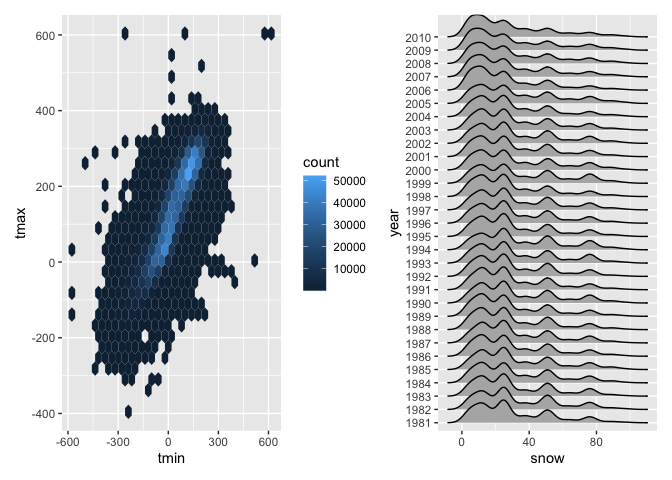
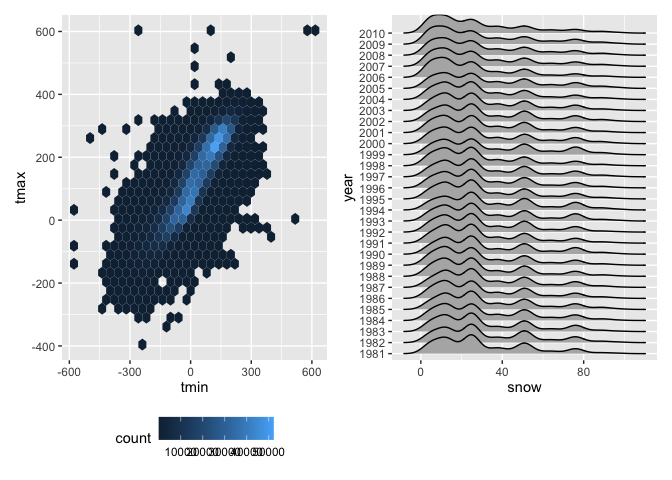
loaded and tidied data for p2; revised plots for p1

diff --git a/P8105_hw3_zl3545.md b/P8105_hw3_zl3545.md
@@ -9,18 +9,7 @@ Zeqi Li
 
 ``` r
 data("ny_noaa")
-head(ny_noaa)
 ```
-
-    ## # A tibble: 6 × 7
-    ##   id          date        prcp  snow  snwd tmax  tmin 
-    ##   <chr>       <date>     <int> <int> <int> <chr> <chr>
-    ## 1 US1NYAB0001 2007-11-01    NA    NA    NA <NA>  <NA> 
-    ## 2 US1NYAB0001 2007-11-02    NA    NA    NA <NA>  <NA> 
-    ## 3 US1NYAB0001 2007-11-03    NA    NA    NA <NA>  <NA> 
-    ## 4 US1NYAB0001 2007-11-04    NA    NA    NA <NA>  <NA> 
-    ## 5 US1NYAB0001 2007-11-05    NA    NA    NA <NA>  <NA> 
-    ## 6 US1NYAB0001 2007-11-06    NA    NA    NA <NA>  <NA>
 
 The NY NOAA dataset contains 2595176 rows and 2595176 columns. This
 dataset describes the weather in New York using variables such as date
@@ -91,7 +80,9 @@ hex =
   ny_noaa |> 
   ggplot(aes(x = tmin,
              y = tmax)) +
-  geom_hex()
+  geom_hex() +
+  theme(legend.position = "bottom") +
+  viridis::scale_color_viridis(discrete = TRUE)
 
 ridge = 
   ny_noaa |> 
@@ -99,9 +90,7 @@ ridge =
   ggplot(aes(x = snow,
              y = as.factor(year))) +
   geom_density_ridges() + 
-  ylab("year") +
-  theme(legend.position = "bottom") +
-  viridis::scale_color_viridis(discrete = TRUE)
+  ylab("year")
 
 hex + ridge
 ```
@@ -120,3 +109,28 @@ general, snowfall amounts follow a multi-modal distribution, where the
 amounts peak at around 10, 25, 50, and slightly at 75. This
 multi-modality is likely because of the conversion of measurements from
 the imperial system to the metric system.
+
+# Problem 2
+
+## Load and tidy up data
+
+``` r
+demograph = 
+  read_csv("data/nhanes_covar.csv",
+           skip = 4) |> 
+  janitor::clean_names() |> 
+  drop_na() |> 
+  filter(age > 20) 
+  
+accel = read_csv("data/nhanes_accel.csv") |> 
+  janitor::clean_names()
+```
+
+## Merge datasets
+
+``` r
+mims = 
+  demograph |> 
+  left_join(accel,
+            by = "seqn")
+```
